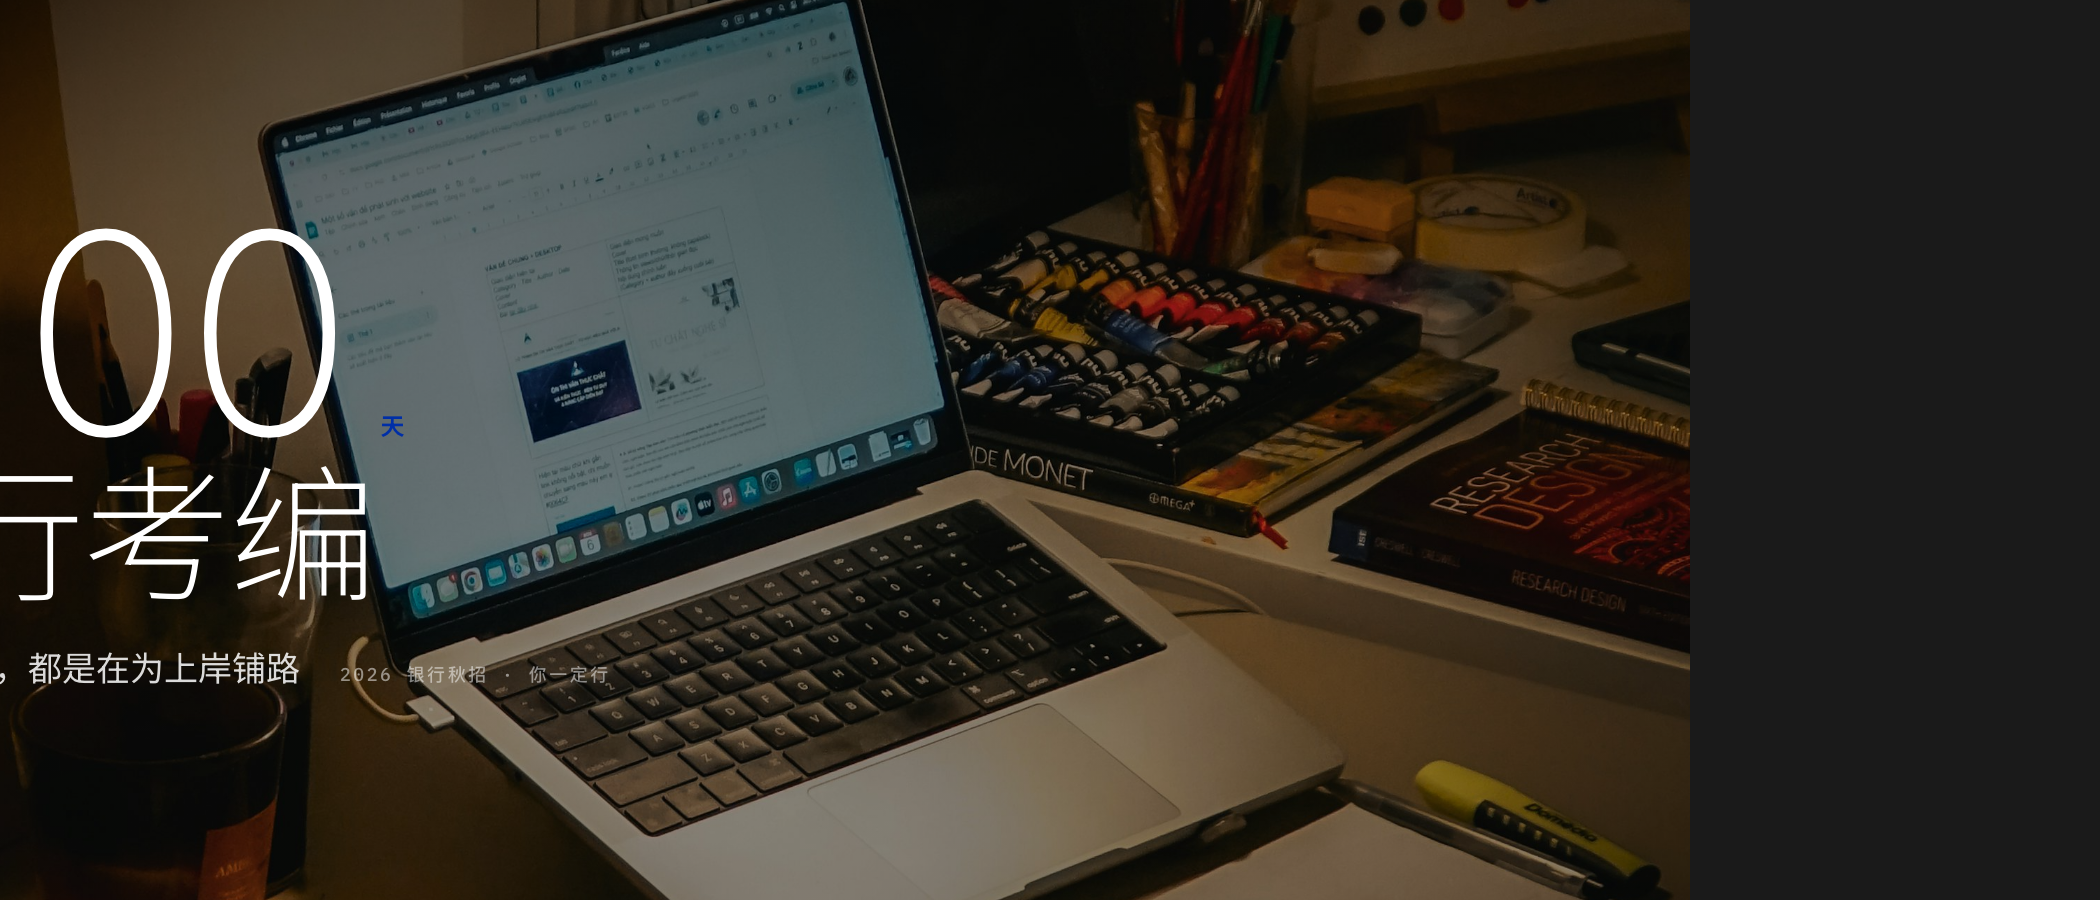
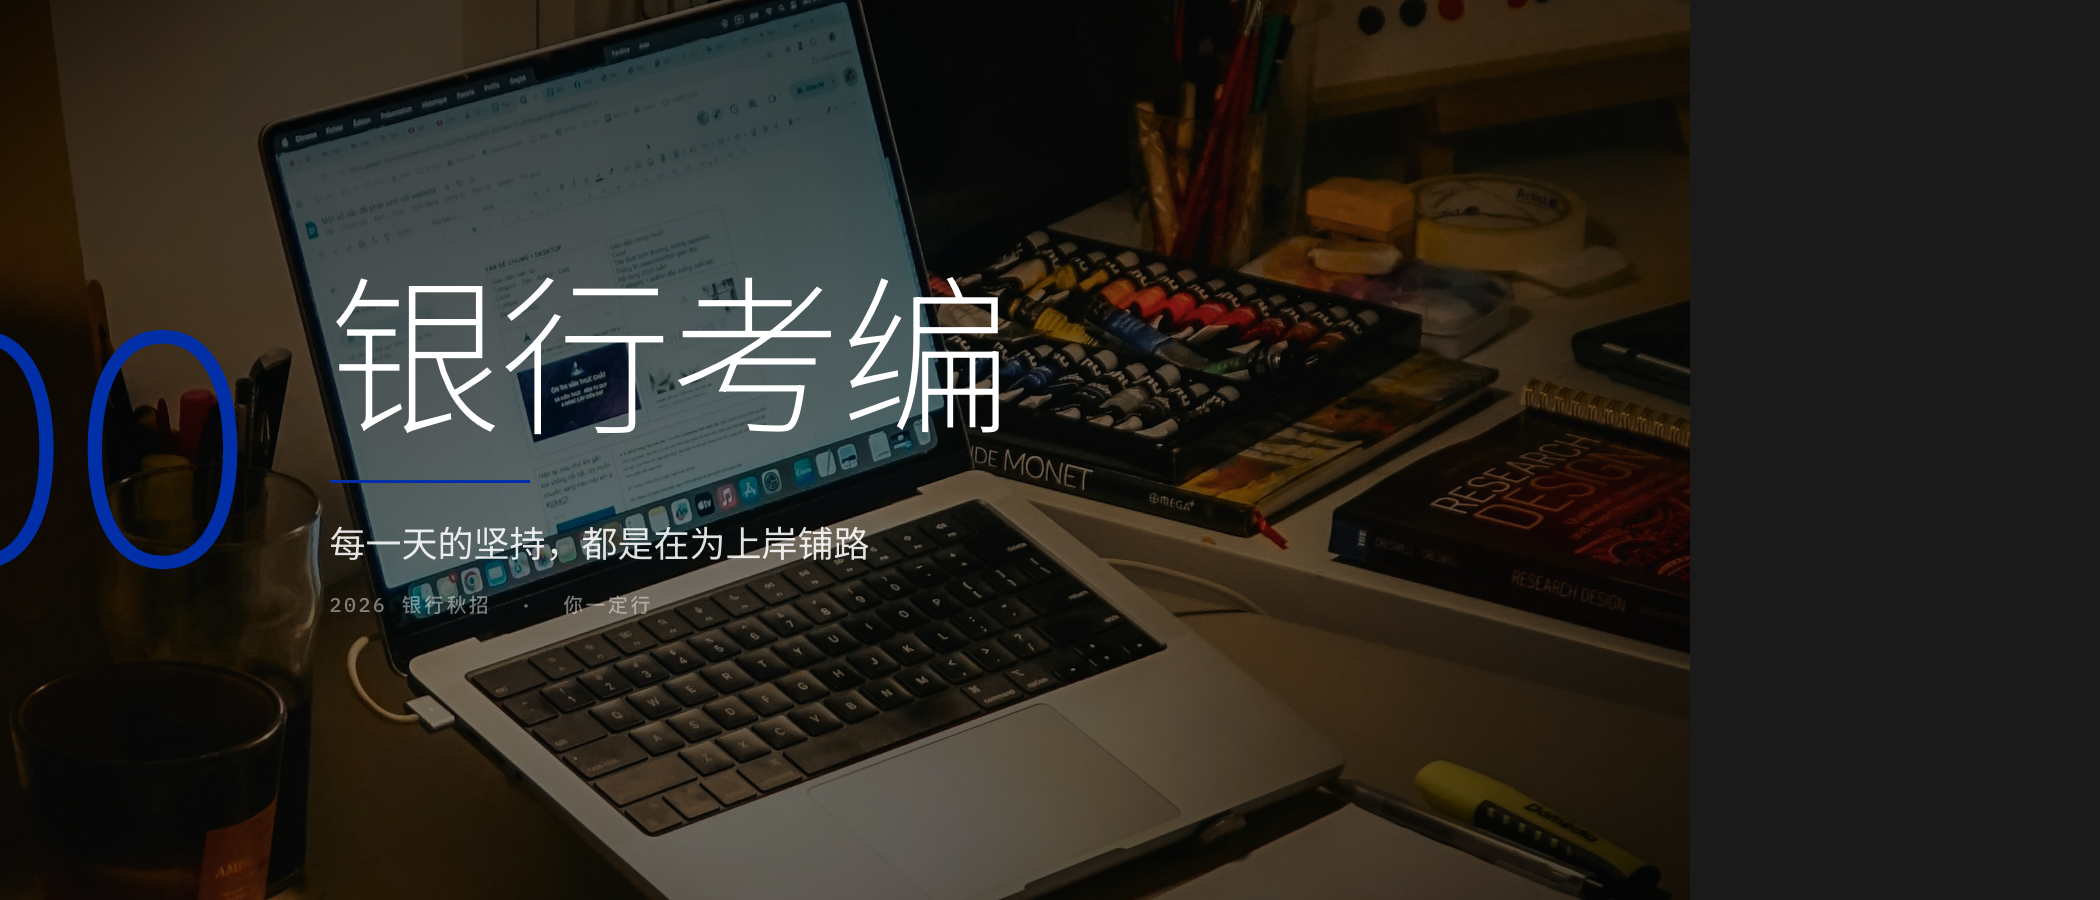
v3: grid layout, stronger overlay, fix 100 clipping

diff --git a/index.html b/index.html
@@ -9,7 +9,7 @@
   <style>
     :root,[data-accent="ikb"] {
       --paper: #fafaf8; --ink: #0a0a0a;
-      --grey-1: #f0f0ee; --grey-2: #d4d4d2; --grey-3: #737373;
+      --grey-3: #737373;
       --accent: #002FA7; --accent-on: #ffffff;
     }
     :root {
@@ -19,98 +19,117 @@
     }
     *,*::before,*::after { box-sizing: border-box; margin: 0; padding: 0; }
     body {
-      background: #1a1a1a; font-family: var(--sans); color: var(--ink);
+      background: #1a1a1a; font-family: var(--sans);
       -webkit-font-smoothing: antialiased; padding: 64px 32px;
     }
     .sheet { display: flex; flex-direction: column; align-items: center; gap: 48px; }
+
     .poster {
-      position: relative; background: var(--paper); color: var(--ink);
+      position: relative; background: #000; color: #fff;
       overflow: hidden; isolation: isolate;
     }
     .poster.wide { width: 2100px; height: 900px; }
 
-    /* Full-bleed hero */
     .hero-img {
       position: absolute; inset: 0; z-index: 0;
       width: 100%; height: 100%;
       object-fit: cover; object-position: center 55%;
     }
+    /* Stronger overlay for text readability */
     .hero-overlay {
       position: absolute; inset: 0; z-index: 1;
-      background: linear-gradient(160deg,
-        rgba(0,0,0,0.78) 0%,
-        rgba(0,0,0,0.50) 30%,
-        rgba(0,0,0,0.38) 60%,
-        rgba(0,0,0,0.42) 100%);
+      background:
+        linear-gradient(155deg,
+          rgba(0,0,0,0.85) 0%,
+          rgba(0,0,0,0.65) 30%,
+          rgba(0,0,0,0.45) 55%,
+          rgba(0,0,0,0.55) 75%,
+          rgba(0,0,0,0.70) 100%);
     }
 
-    /* Content: all left-aligned, vertical stack filling width */
+    /* Content: grid, two-column but tight */
     .content {
       position: relative; z-index: 2;
       width: 100%; height: 100%;
-      display: flex; flex-direction: column; justify-content: center;
-      padding: 100px 200px;
-      color: #ffffff;
+      display: grid;
+      grid-template-columns: auto 1fr;
+      grid-template-rows: auto auto auto;
+      align-content: center;
+      padding: 80px 180px;
+      gap: 0 80px;
     }
+
+    /* Grid area assignments */
+    .num-block {
+      grid-column: 1; grid-row: 1 / 4;
+      display: flex; flex-direction: column; justify-content: center; align-items: flex-start;
+    }
+    .title-block { grid-column: 2; grid-row: 1; }
+    .rule-block  { grid-column: 2; grid-row: 2; }
+    .desc-block  { grid-column: 2; grid-row: 3; }
 
     /* Typography */
-    .h-hero {
-      font-family: var(--sans); font-weight: 200; font-size: 148px;
-      line-height: 1.04; letter-spacing: -.01em; color: #ffffff;
-    }
     .num-mega {
       font-family: var(--sans); font-weight: 200;
-      font-size: 280px;
-      line-height: .90; letter-spacing: -.02em;
-      color: #ffffff;
+      font-size: 320px;
+      line-height: .88; letter-spacing: -.03em;
+      color: var(--accent);
+      /* ensure no clipping */
+      padding: 20px 0;
+      margin: -20px 0;
+    }
+    .num-label {
+      font-family: var(--sans); font-weight: 600; font-size: 28px;
+      letter-spacing: .16em; text-transform: uppercase;
+      color: var(--accent);
+    }
+    .h-hero {
+      font-family: var(--sans); font-weight: 200; font-size: 172px;
+      line-height: 1.04; letter-spacing: -.01em; color: #ffffff;
     }
     .lead {
-      font-family: var(--sans-zh); font-weight: 400; font-size: 34px;
-      line-height: 1.5; color: rgba(255,255,255,0.85);
-    }
-    .t-cat {
-      font-family: var(--sans); font-weight: 600; font-size: 24px;
-      letter-spacing: .12em; text-transform: uppercase; color: var(--accent);
+      font-family: var(--sans-zh); font-weight: 400; font-size: 36px;
+      line-height: 1.45; color: rgba(255,255,255,0.88);
+      max-width: 720px;
     }
     .t-meta {
-      font-family: var(--mono); font-weight: 500; font-size: 18px;
-      letter-spacing: .14em; text-transform: uppercase;
-      color: rgba(255,255,255,0.50);
+      font-family: var(--mono); font-weight: 500; font-size: 20px;
+      letter-spacing: .12em; text-transform: uppercase;
+      color: rgba(255,255,255,0.45);
+      margin-top: 24px;
     }
-
-    .row { display: flex; flex-direction: row; align-items: baseline; }
-    .gap-6 { gap: 24px; } .gap-7 { gap: 32px; } .gap-8 { gap: 40px; }
-
     .hr-accent {
       border: none; height: 3px; background: var(--accent);
-      width: 160px; margin: 12px 0;
+      width: 200px; margin: 20px 0;
     }
   </style>
 </head>
 <body>
 <main class="sheet">
 
-  <!-- subject-map: photo at center 55% — desk with books/laptop in middle band.
-       Text placed in lower-left safe zone, sky/upper area as breathing room. -->
   <section class="poster wide" id="wechat-cover">
     <img class="hero-img" src="assets/study-desk.jpg" alt="深夜书桌"
          style="object-position:center 55%">
     <div class="hero-overlay"></div>
 
     <div class="content">
-      <!-- Top row: category + countdown inline -->
-      <div class="row gap-7" style="align-items:baseline;">
-        <p class="t-cat">倒 计 时</p>
+      <!-- LEFT: countdown block -->
+      <div class="num-block">
+        <p class="num-label">倒&nbsp;计&nbsp;时</p>
         <p class="num-mega">100</p>
-        <p class="t-cat">天</p>
+        <p class="num-label">天</p>
       </div>
 
-      <!-- Bottom row: title + motivation + meta -->
-      <h1 class="h-hero">银行考编</h1>
-      <hr class="hr-accent">
-      <div class="row gap-8" style="align-items:baseline;">
+      <!-- RIGHT: title + desc -->
+      <div class="title-block">
+        <h1 class="h-hero">银行考编</h1>
+      </div>
+      <div class="rule-block">
+        <hr class="hr-accent">
+      </div>
+      <div class="desc-block">
         <p class="lead">每一天的坚持，都是在为上岸铺路</p>
-        <p class="t-meta">2026 银行秋招  ·  你一定行</p>
+        <p class="t-meta">2026 银行秋招 &nbsp;·&nbsp; 你一定行</p>
       </div>
     </div>
   </section>